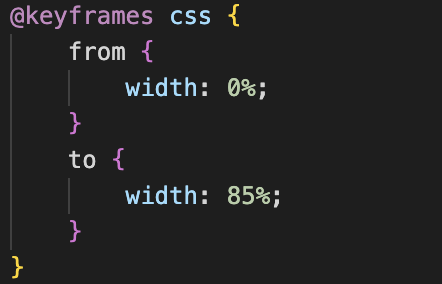
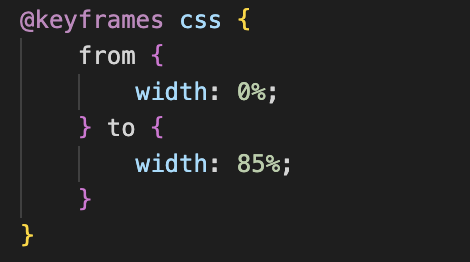
design(responsiv): responsive picture

diff --git a/src/views/DeveloperView.vue b/src/views/DeveloperView.vue
@@ -45,7 +45,7 @@
 						</h3>
 						<div>
 							<h3>Here the classic example with KeyFrames</h3>
-							<img src="../assets/KeyFrameAnimation.png" width="1135" height="650" />
+							<img src="../assets/KeyFrameAnimation.png" width="1135" />
 						</div>
 						<h3 class="table-text">Another way of writing animations is with conditional classes</h3>
 						<div>
